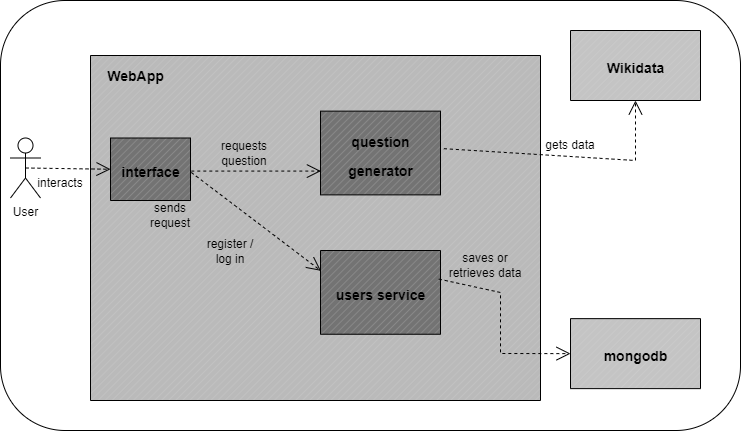
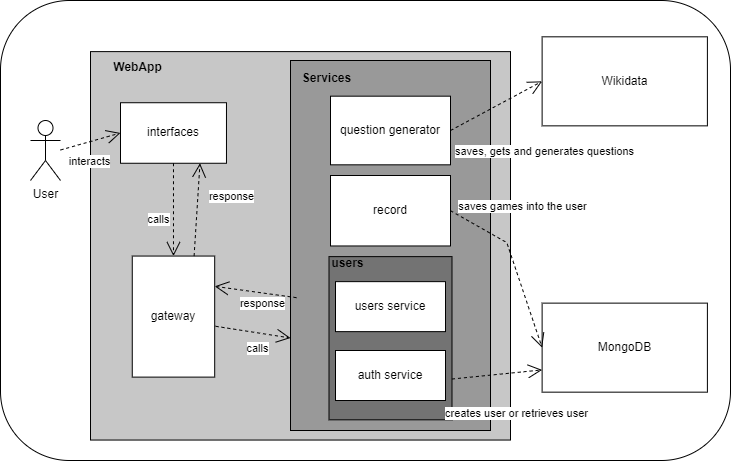
Updates

diff --git a/index.html b/index.html
@@ -473,7 +473,6 @@ body.book #toc,body.book #preamble,body.book h1.sect0,body.book .sect1>h2{page-b
 <li><a href="#_whitebox_overall_system">5.1. Whitebox Overall System</a></li>
 <li><a href="#_level_2">5.2. Level 2</a></li>
 <li><a href="#_level_3">5.3. Level 3</a></li>
-<li><a href="#_level_4">5.4. Level 4</a></li>
 </ul>
 </li>
 <li><a href="#section-runtime-view">6. Runtime View</a>
@@ -486,10 +485,9 @@ body.book #toc,body.book #preamble,body.book h1.sect0,body.book .sect1>h2{page-b
 <li><a href="#section-deployment-view">7. Deployment View</a></li>
 <li><a href="#section-concepts">8. Cross-cutting Concepts</a>
 <ul class="sectlevel2">
-<li><a href="#_security">8.1. <em>Security</em></a></li>
-<li><a href="#_ethics">8.2. <em>Ethics</em></a></li>
-<li><a href="#_performance">8.3. <em>Performance</em></a></li>
-<li><a href="#_user_experience">8.4. <em>User experience</em></a></li>
+<li><a href="#_ethics">8.1. <em>Ethics</em></a></li>
+<li><a href="#_performance">8.2. <em>Performance</em></a></li>
+<li><a href="#_user_experience">8.3. <em>User experience</em></a></li>
 </ul>
 </li>
 <li><a href="#section-design-decisions">9. Architecture Decisions</a></li>
@@ -589,12 +587,6 @@ body.book #toc,body.book #preamble,body.book h1.sect0,body.book .sect1>h2{page-b
 </tr>
 </thead>
 <tbody>
-<tr>
-<td class="tableblock halign-left valign-top"><p class="tableblock"><em>High</em></p></td>
-<td class="tableblock halign-left valign-top"><p class="tableblock"><strong>Privacy</strong></p></td>
-<td class="tableblock halign-left valign-top"><p class="tableblock">Personal data and information shouldn´t be something that just anyone can play with, so
-                        the system must guarantee their users´ information to be safe and hidden to other people</p></td>
-</tr>
 <tr>
 <td class="tableblock halign-left valign-top"><p class="tableblock"><em>High</em></p></td>
 <td class="tableblock halign-left valign-top"><p class="tableblock"><strong>Usability</strong></p></td>
@@ -925,8 +917,7 @@ multiple tests will be done to ensure everything works as intended.</p>
 <div class="sectionbody">
 <div class="paragraph">
 <p>The Building Block view shows the decomposition of the WIQ system into different building blocks that will represent different
-aspects of the webapp. It will help by giving a clear image of the overall system and also the inside of it.
-It is a preliminary decomposition of the webApp as it might change, not drastically, throughout the development of the game.</p>
+aspects of the webapp. It will help by giving a clear image of the overall system and also the inside of it.</p>
 </div>
 <div class="sect2">
 <h3 id="_whitebox_overall_system">5.1. Whitebox Overall System</h3>
@@ -940,46 +931,32 @@ It is a preliminary decomposition of the webApp as it might change, not drastica
 <dt class="hdlist1">Motivation</dt>
 <dd>
 <p>The user interacts with the webapp interface to be able to play the game. In the diagram it is clear to see that the webbApp interacts
-with an external box which is Wikidata as it is a requirement of the game to generate the qestions. In other levels, the webApp will decompose
-in more detail.</p>
+with two external box which is Wikidata, as it is a requirement of the game to generate the qestions, and Mongodb, the database used to keep our data stored.
+In other levels, the webApp will decompose in more detail.</p>
 </dd>
 <dt class="hdlist1">Contained Building Blocks</dt>
+<dd>
+<p>==== WebApp</p>
+</dd>
 </dl>
 </div>
-<table class="tableblock frame-all grid-all stretch">
-<colgroup>
-<col style="width: 33.3333%;">
-<col style="width: 66.6667%;">
-</colgroup>
-<thead>
-<tr>
-<th class="tableblock halign-left valign-top">User</th>
-<th class="tableblock halign-left valign-top">The users who interact with the webApp and play the game.</th>
-</tr>
-</thead>
-<tbody>
-<tr>
-<td class="tableblock halign-left valign-top"><p class="tableblock">WebApp</p></td>
-<td class="tableblock halign-left valign-top"><p class="tableblock">The WebApp called WIQ which consists in a game of questions and answers.</p></td>
-</tr>
-<tr>
-<td class="tableblock halign-left valign-top"><p class="tableblock">Wikidata</p></td>
-<td class="tableblock halign-left valign-top"><p class="tableblock">The external source of information that the webApp uses to generate que questions.</p></td>
-</tr>
-</tbody>
-</table>
-<div class="sect3">
-<h4 id="_webapp">5.1.1. WebApp</h4>
 <div class="paragraph">
 <p>The WebApp box consists of the entire game with all the different responsibilities the game might have all together.
 The interface of the WebApp will be the frontend of a web that will be seen better in other diagrams.</p>
 </div>
-</div>
 <div class="sect3">
-<h4 id="_wikdata">5.1.2. Wikdata</h4>
+<h4 id="_wikdata">5.1.1. Wikdata</h4>
 <div class="paragraph">
 <p>The purpose of the Wikidata box is to get the necessary information to generate all the questions of all the games.
-The game will interact with Wikidata by sparql querys.</p>
+The game will interact with Wikidata by sparql querys which will be stored in the database.</p>
+</div>
+</div>
+<div class="sect3">
+<h4 id="_mongodb">5.1.2. MongoDb</h4>
+<div class="paragraph">
+<p>MongoDb is the service we will use to store our data. We will keep it in a cluster in which there are
+different collections to separate the data. Templates of the entities we save are seen in the project and
+there are some for the users and their record and others for the questions.</p>
 </div>
 </div>
 </div>
@@ -991,20 +968,26 @@ The game will interact with Wikidata by sparql querys.</p>
 </div>
 </div>
 <div class="sect3">
-<h4 id="_white_box_interfaces">5.2.1. White Box Interfaces</h4>
+<h4 id="_interfaces">5.2.1. Interfaces</h4>
 <div class="paragraph">
 <p>It consists of the interfaces with which the user will interact to play the game and use all of the different services it provides.
-There will be differente interfaces for all different services of the game and the users will be able to go through all of them.
-These interfaces will be atractive to the user and easy to use, as well as fast-charging not to make the users wait much.</p>
+There will be different interfaces for the different parts of the webapp, all of them will be connected with eachother.
+These interfaces will be atractive to the user and easy to use, as well as fast-charging not to make the users wait much.
+These interfaces are the ones that calls for something to be done, so they interact with the gateway.</p>
 </div>
 </div>
 <div class="sect3">
-<h4 id="_white_box_microservices">5.2.2. White Box Microservices</h4>
+<h4 id="_gateway">5.2.2. Gateway</h4>
 <div class="paragraph">
-<p>The components of the webApp are the microservices, apart from the interfaces, which will have all the logic of the game and are the ones
-who will interact with the external services (Wikidata, mongodb). There will be one microservice for each one of the responsibilities of the game.
-These microservices will need to be fast in getting all the data they need and they need to communicate with the interfaces to be able to show
-the user all they need to know to play the game.</p>
+<p>The gateway is the place where every request is redirected to the service where it belongs to as that information is not visible for the user.</p>
+</div>
+</div>
+<div class="sect3">
+<h4 id="_services">5.2.3. Services</h4>
+<div class="paragraph">
+<p>The different services are the ones that internally take care of all the data in the server. They also deal with
+the requests sent by the gateway and generate a response to it, a good one or the error related to it. To generate the response,
+the services need data from the database or Wikidata, so they interact with them and sends the data as the response to show the user, for example.</p>
 </div>
 </div>
 </div>
@@ -1016,42 +999,40 @@ the user all they need to know to play the game.</p>
 </div>
 </div>
 <div class="sect3">
-<h4 id="_white_box_question_generator">5.3.1. White Box Question Generator</h4>
+<h4 id="_question_generator">5.3.1. Question Generator</h4>
 <div class="paragraph">
-<p>The Question Generator is the microservice that interacts with the Wikidata external service through SPARQL.
-It is the microservice dedicated to generate the questions and the answers and pass them to the interface to show them to the user.</p>
+<p>The Question Generator is the service that interacts with the Wikidata external service through SPARQL querys.
+It is dedicated to generate the questions and the answers and send them to the database to store there to later show
+in the game.</p>
 </div>
 </div>
 <div class="sect3">
-<h4 id="_white_box_users_service">5.3.2. White Box Users service</h4>
+<h4 id="_record">5.3.2. Record</h4>
 <div class="paragraph">
-<p>The users service is another microservice. It is the one in charge of collecting all the data from the users when they register and
-to retrieve all their data when they login.
-They also interact with the interface of the game.</p>
-</div>
-</div>
-</div>
-<div class="sect2">
-<h3 id="_level_4">5.4. Level 4</h3>
-<div class="imageblock">
-<div class="content">
-<img src="./images/buildingBlock4.png" alt="More detailed users service diagram">
+<p>The record service is the one that answers the requests related to save or get the games and statistics of the player.
+It interacts with the user collection in the MongoDb database and stores there the data. It also sends the data for the
+user to see.</p>
 </div>
 </div>
 <div class="sect3">
-<h4 id="_white_box_auth_service">5.4.1. White Box Auth service</h4>
+<h4 id="_users">5.3.3. Users</h4>
+<div class="sect4">
+<h5 id="_auth_service">Auth service</h5>
 <div class="paragraph">
-<p>This is one microservice inside of the microservice Users service. It is in charge of authenticate the users when they register for the
-first time in the game. All the data gets collected and saved in the database MongoDb for when they login later.</p>
+<p>This is one service inside the users part of the webapp. It is in charge of authenticating the users when they register for the
+first time in the game. All the data gets collected and saved in the collection users in MongoDb for when they login later. It uses the same
+database that the record service uses.</p>
 </div>
 </div>
-<div class="sect3">
-<h4 id="_white_box_login_service">5.4.2. White Box Login service</h4>
+<div class="sect4">
+<h5 id="_users_service">Users service</h5>
 <div class="paragraph">
-<p>This is another microservice inside the Users service. This one is the one users use everytime when they log in. It retrieves
-all their data from the database MongoDb and shows them in the webApp as the users will have an option to view all their past data.</p>
+<p>This is one service inside the users part of the webapp. This one is the one users use everytime when they log in. It retrieves
+all their data from the database and shows them in the webApp as the users will have an option to view all their past data. It gets
+the data from the same collection as the auth service and the record.</p>
 </div>
 <div style="page-break-after: always;"></div>
+</div>
 </div>
 </div>
 </div>
@@ -1129,21 +1110,14 @@ the application will notify him that an error on the authentication has ocurred.
 <h2 id="section-concepts">8. Cross-cutting Concepts</h2>
 <div class="sectionbody">
 <div class="sect2">
-<h3 id="_security">8.1. <em>Security</em></h3>
-<div class="paragraph">
-<p><em>Deployment of secure user authentication systems to ensure that only the own user can access his personal data and
-specific functionalities.</em></p>
-</div>
-</div>
-<div class="sect2">
-<h3 id="_ethics">8.2. <em>Ethics</em></h3>
+<h3 id="_ethics">8.1. <em>Ethics</em></h3>
 <div class="paragraph">
 <p><em>Ensuring users are clearly informed about what data is collected, how it will be used and with whom it is shared
 by obtaining their explicit consent for its processing.</em></p>
 </div>
 </div>
 <div class="sect2">
-<h3 id="_performance">8.3. <em>Performance</em></h3>
+<h3 id="_performance">8.2. <em>Performance</em></h3>
 <div class="paragraph">
 <p><em>Optimizing performance is crucial for ensuring a seamless user experience. This involves implementing efficient algorithms
 and database structures to minimize response times and maximize scalability. By prioritizing performance considerations,
@@ -1152,7 +1126,7 @@ will be challenging</em></p>
 </div>
 </div>
 <div class="sect2">
-<h3 id="_user_experience">8.4. <em>User experience</em></h3>
+<h3 id="_user_experience">8.3. <em>User experience</em></h3>
 <div class="paragraph">
 <p><em>This is a key element in the design of every application because it directly impacts on user satisfaction and retention.
 Crafting intuitive interfaces that facilitate effortless interaction with the system is sure something to take into account.</em></p>
@@ -1466,7 +1440,7 @@ graphical elements, and other visual elements, as well as the logic that control
 <div id="footer">
 <div id="footer-text">
 Version 8.2 EN<br>
-Last updated 2024-03-07 12:53:22 +0100
+Last updated 2024-04-06 20:00:22 +0200
 </div>
 </div>
 </body>
